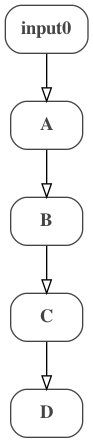
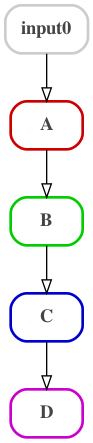
Added example with color in metadata

diff --git a/examples/MDF/abcd.py b/examples/MDF/abcd.py
@@ -14,7 +14,9 @@ def main():
     mod_graph = Graph(id="abcd_example")
     mod.graphs.append(mod_graph)
 
-    input_node = Node(id="input0", parameters={"input_level": 0.0}, metadata = {'color':'.8 0 0'})
+    input_node = Node(
+        id="input0", parameters={"input_level": 0.0}, metadata={"color": ".8 .8 .8"}
+    )
 
     op1 = OutputPort(id="out_port")
     op1.value = "input_level"
@@ -25,7 +27,7 @@ def main():
     print(input_node.output_ports)
 
     # a = create_example_node('A', mod_graph)
-    a = Node(id="A")
+    a = Node(id="A", metadata={"color": ".8 0 0"})
     mod_graph.nodes.append(a)
 
     a.parameters = {"slope": abcd.A_slope, "intercept": abcd.A_intercept}
@@ -42,7 +44,7 @@ def main():
 
     e1 = simple_connect(input_node, a, mod_graph)
 
-    b = Node(id="B")
+    b = Node(id="B", metadata={"color": "0 .8 0"})
     mod_graph.nodes.append(b)
 
     b.parameters = {"gain": abcd.B_gain, "bias": abcd.B_bias, "offset": abcd.B_offset}
@@ -59,7 +61,7 @@ def main():
 
     simple_connect(a, b, mod_graph)
 
-    c = Node(id="C")
+    c = Node(id="C", metadata={"color": "0 0 .8"})
     mod_graph.nodes.append(c)
 
     c.parameters = {
@@ -87,7 +89,7 @@ def main():
 
     simple_connect(b, c, mod_graph)
 
-    d = Node(id="D")
+    d = Node(id="D", metadata={"color": ".8 0 .8"})
     mod_graph.nodes.append(d)
 
     d.parameters = {"scale": abcd.D_scale}
@@ -112,11 +114,13 @@ def main():
     print_summary(mod_graph)
 
     import sys
+
     if "-run" in sys.argv:
         verbose = True
-        #verbose = False
+        # verbose = False
         from modeci_mdf.scheduler import EvaluableGraph
         from neuromllite.utils import FORMAT_NUMPY, FORMAT_TENSORFLOW
+
         format = FORMAT_TENSORFLOW if "-tf" in sys.argv else FORMAT_NUMPY
         eg = EvaluableGraph(mod_graph, verbose=verbose)
         eg.evaluate(array_format=format)
@@ -128,10 +132,8 @@ def main():
             view_on_render=False,
             level=1,
             filename_root="abcd",
-            only_warn_on_fail=True  # Makes sure test of this doesn't fail on Windows on GitHub Actions
+            only_warn_on_fail=True,  # Makes sure test of this doesn't fail on Windows on GitHub Actions
         )
-
-
 
 
 if __name__ == "__main__":

diff --git a/src/modeci_mdf/interfaces/graphviz/importer.py b/src/modeci_mdf/interfaces/graphviz/importer.py
@@ -12,6 +12,8 @@ import numpy as np
 
 from modeci_mdf.standard_functions import mdf_functions
 
+from modeci_mdf.utils import color_rgb_to_hex
+
 engines = {
     "d": "dot",
     "c": "circo",
@@ -29,6 +31,7 @@ LEVEL_2 = 2
 LEVEL_3 = 3
 
 COLOR_MAIN = "#444444"
+#COLOR_BG_MAIN = "#999911"
 COLOR_LABEL = "#666666"
 COLOR_NUM = "#444444"
 COLOR_PARAM = "#999944"
@@ -123,11 +126,34 @@ def mdf_to_graphviz(
 
     for node in mdf_graph.nodes:
         print("    Node: %s" % node.id)
+        color = COLOR_MAIN
+        penwidth = '1'
+        #bg_color = COLOR_BG_MAIN
+
+        if node.metadata is not None:
+            if 'color' in node.metadata:
+                color = color_rgb_to_hex(node.metadata['color'])
+                penwidth = '2'
+
         graph.attr(
-            "node", color=COLOR_MAIN, style="rounded", shape="box", fontcolor=COLOR_MAIN
+            "node",
+            color=color,
+            style="rounded",
+            shape="box",
+            fontcolor=COLOR_MAIN,
+            penwidth=penwidth
         )
         info = '<table border="0" cellborder="0">'
         info += '<tr><td colspan="2"><b>%s</b></td></tr>' % (node.id)
+
+        if node.metadata is not None and level >= LEVEL_3:
+
+            info += "<tr><td>%s" % format_label("METADATA")
+
+            for m in node.metadata:
+                info += format_standard_func_long('%s = %s'%(m,node.metadata[m]))
+
+            info += '</td></tr>'
 
         if level >= LEVEL_2:
             if node.parameters and len(node.parameters) > 0:

diff --git a/src/modeci_mdf/utils.py b/src/modeci_mdf/utils.py
@@ -103,3 +103,10 @@ def load_mdf_yaml(filename):
     model = _parse_element(data, model)
 
     return model
+
+def color_rgb_to_hex(rgb):
+    color = '#'
+    print('Converting %s to hex color'%rgb)
+    for a in rgb.split():
+        color = color+'%02x'%int(float(a)*255)
+    return color
